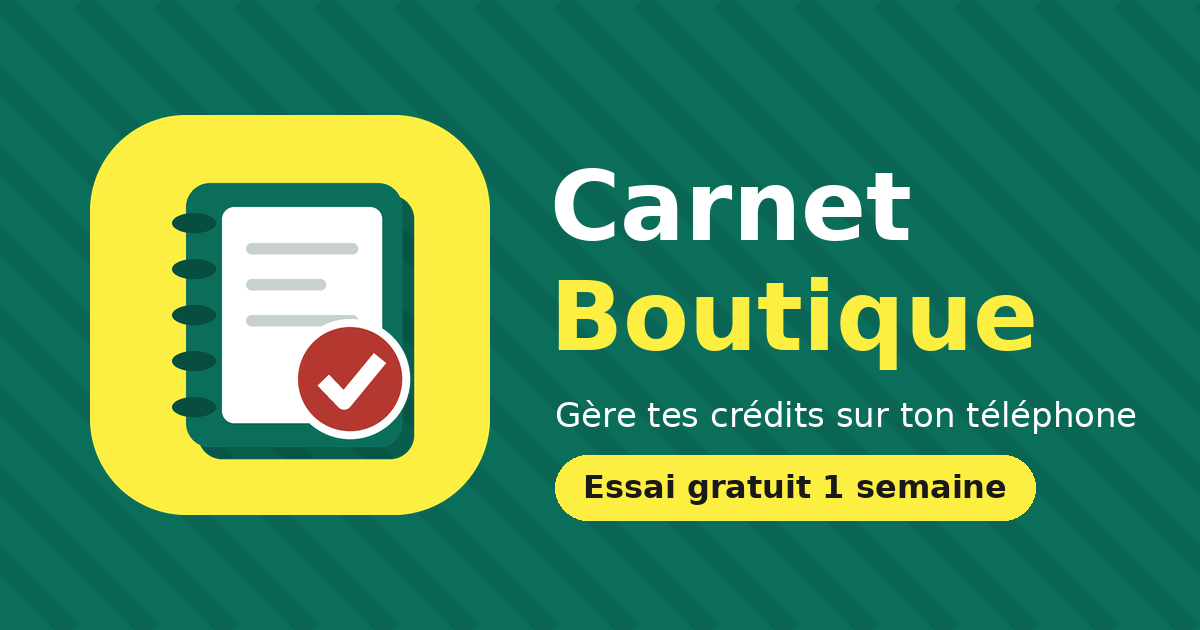
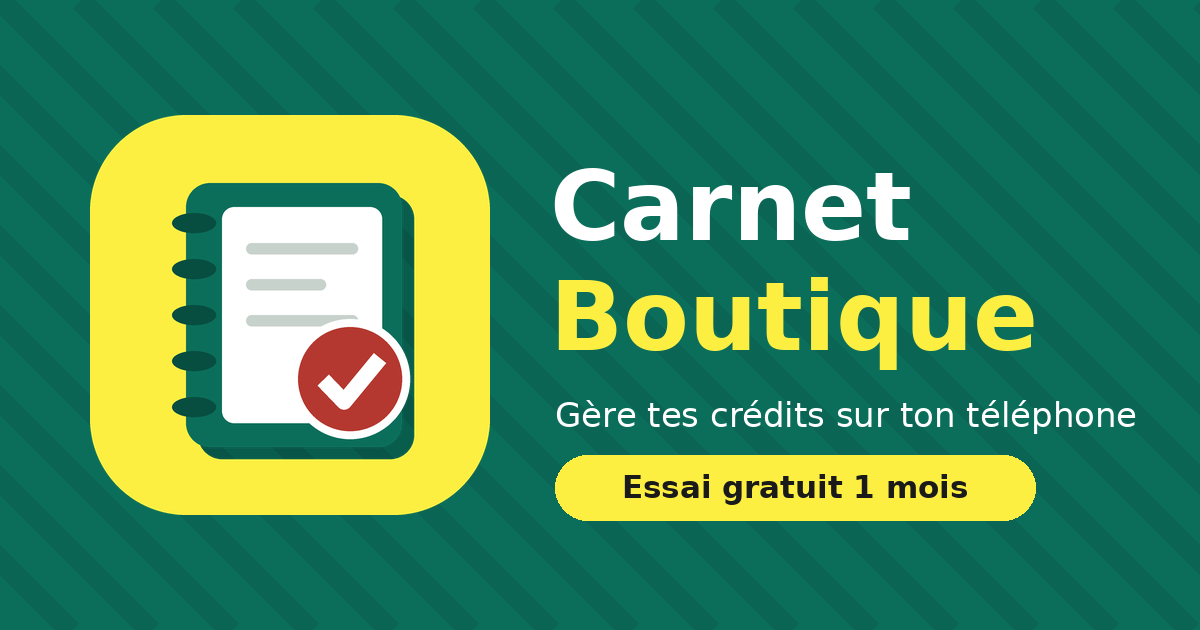
Offre de lancement : 1 mois gratuit jusqu'au 31/01/2027, puis 14 jours
La durée de l'essai est aussi fixée par le serveur (Supabase seck_essai_fin).

Claude-Session: https://claude.ai/code/session_016E3iuBy89ZfTHGSWXiJReE

Changed region(s): [[0.4625, 0.754, 0.8325, 0.8143]]

diff --git a/index.html b/index.html
@@ -1,4 +1,4 @@
-<!doctype html><html lang="fr"><head><script>/* terangaapps.com : passe en https dès que le certificat est prêt */(function(){try{var l=location;if(l.protocol==="http:"&&/(^|\.)terangaapps\.com$/.test(l.hostname)){var u="https://"+l.host+l.pathname+l.search+l.hash;fetch("https://"+l.host+"/CNAME",{mode:"no-cors",cache:"no-store"}).then(function(){l.replace(u)}).catch(function(){})}}catch(e){}})();</script><meta charset=utf8><meta name=viewport content="width=device-width,initial-scale=1,viewport-fit=cover"><style>:root{color-scheme:light;box-sizing:border-box;padding-top:env(safe-area-inset-top,0px);padding-bottom:env(safe-area-inset-bottom,0px)}html{scroll-padding-top:env(safe-area-inset-top,0px)}body{margin:0;padding:0;font:14px -apple-system,BlinkMacSystemFont,sans-serif;background:#faf9f5;color:#141413}img{max-width:100%}[hidden]:not([hidden=until-found i]){display:none!important}.pushcard{display:flex;flex-direction:column;gap:10px;background:var(--pc-bg,transparent);border:1px solid var(--pc-line,rgba(128,128,128,.35));border-radius:14px;padding:14px;margin:12px 0}
+<!doctype html><html lang="fr"><head><script>/* terangaapps.com : passe en https dès que le certificat est prêt */(function(){try{var l=location;if(l.protocol==="http:"&&/(^|\.)terangaapps\.com$/.test(l.hostname)){var u="https://"+l.host+l.pathname+l.search+l.hash;fetch("https://"+l.host+"/CNAME",{mode:"no-cors",cache:"no-store"}).then(function(){l.replace(u)}).catch(function(){})}}catch(e){}})();</script><meta charset=utf8><script>/* Essai gratuit : 1 mois pour toute inscription jusqu'au 31/01/2027 (offre de lancement), puis 14 jours. Même règle sur le serveur (Supabase seck_essai_fin). */window.ESSAI_LANCEMENT=Date.now()<Date.UTC(2027,1,1);window.ESSAI_TXT=ESSAI_LANCEMENT?'1 mois gratuit':'14 jours gratuits';window.ESSAI_TXT_LONG=ESSAI_LANCEMENT?"1 mois d'essai gratuit":"14 jours d'essai gratuit";window.ESSAI_IT=ESSAI_LANCEMENT?'1 mese gratis':'14 giorni gratis';window.ESSAI_JOURS=ESSAI_LANCEMENT?30:14;</script><meta name=viewport content="width=device-width,initial-scale=1,viewport-fit=cover"><style>:root{color-scheme:light;box-sizing:border-box;padding-top:env(safe-area-inset-top,0px);padding-bottom:env(safe-area-inset-bottom,0px)}html{scroll-padding-top:env(safe-area-inset-top,0px)}body{margin:0;padding:0;font:14px -apple-system,BlinkMacSystemFont,sans-serif;background:#faf9f5;color:#141413}img{max-width:100%}[hidden]:not([hidden=until-found i]){display:none!important}.pushcard{display:flex;flex-direction:column;gap:10px;background:var(--pc-bg,transparent);border:1px solid var(--pc-line,rgba(128,128,128,.35));border-radius:14px;padding:14px;margin:12px 0}
 .pushh{font-size:17px}.pushnote{font-size:14px;opacity:.85;line-height:1.4}.pushwarn{color:#b45309;opacity:1;font-weight:600}
 .pushon{font-weight:800}.pushrow{display:flex;gap:8px;flex-wrap:wrap}
 .pushbtn{border:0;border-radius:12px;padding:12px 16px;font-weight:800;font-size:16px;min-height:46px;cursor:pointer;background:var(--pc-accent,#0B6E5B);color:#fff}
@@ -12,7 +12,7 @@
 <meta property="og:title" content="Carnet Boutique">
 <meta property="og:description" content="Gère tes crédits sur ton téléphone. Français • Wolof. Essai gratuit 1 semaine.">
 <meta property="og:url" content="https://boutique.terangaapps.com/">
-<meta property="og:image" content="https://boutique.terangaapps.com/copertina.png">
+<meta property="og:image" content="https://boutique.terangaapps.com/copertina.png?v=2">
 <meta property="og:image:width" content="1200">
 <meta property="og:image:height" content="630">
 <meta name="twitter:card" content="summary_large_image">
@@ -475,6 +475,8 @@ const WO_RX=[
 [/^L'app sera bloquée dans (-?\d+) jour\(s\)\. Payez pour continuer\.$/,"App bi dina tëju ci $1 fan. Feyal ngir wéy."],
 [/^Votre essai gratuit se termine le$/,"Sa jéem bu amul pey dina jeex ci"],[/^Votre abonnement se termine le$/,"Sa abonnement dina jeex ci"],
 [/^\((-?\d+) j\)\.$/,"($1 fan)."],
+[/^Ventes, factures WhatsApp, crédits des clients, stock avec code-barres, fournisseurs et dépenses\. 1 mois d'essai gratuit\.$/,"Jaay, faktiir ci WhatsApp, boru kiliyaan yi, stock ak code-barres, fournisseurs ak depaans. Benn weer ngir jéem, amul pey."],
+[/^Ventes, factures WhatsApp, crédits des clients, stock avec code-barres, fournisseurs et dépenses\. 1 mois d'essai gratuit\.$/,"Jaay, faktiir ci WhatsApp, boru kiliyaan yi, stock ak code-barres, fournisseurs ak depaans. Benn weer ngir jéem, amul pey."],
 [/^Ventes, factures WhatsApp, crédits des clients, stock avec code-barres, fournisseurs et dépenses\. (\d+) jours d'essai gratuit\.$/,"Jaay, faktiir ci WhatsApp, boru kiliyaan yi, stock ak code-barres, fournisseurs ak depaans. $1 fan ngir jéem, amul pey."],
 [/^(\d+) facture\(s\)$/,"$1 faktiir"],[/^(\d+) client\(s\)$/,"$1 kiliyaan"],[/^(\d+) en retard$/,"$1 yàgg nañu"],[/^(\d+) à racheter$/,"$1 war a jënd"],
 [/^(\d+) en attente$/,"$1 ñuy xaar"],[/^(\d+) ligne\(s\) sans prix d'achat$/,"$1 marsandiis amul njëgu jënd"],
@@ -544,7 +546,7 @@ function applyCfg(c){if(!c||typeof c!=='object')return;const d=x=>String(x||'').
   if(d(c.paiement).length>=9)PAY_NUM=String(c.paiement).trim();if(c.prix)PRIX_MOIS=String(c.prix);if(c.nom)SUPPORT_NAME=String(c.nom);}
 try{applyCfg(JSON.parse(localStorage.getItem('carnetBoutique.cfg')||'null'));}catch(e){}
 try{fetch('config.json?t='+Date.now(),{cache:'no-store'}).then(r=>r.ok?r.json():null).then(c=>{if(!c)return;applyCfg(c);try{localStorage.setItem('carnetBoutique.cfg',JSON.stringify(c));}catch(e){}try{if(S)render();}catch(e){}}).catch(()=>{});}catch(e){}
-const TRIAL_DAYS=7, GRACE_DAYS=3;
+const TRIAL_DAYS=ESSAI_JOURS, GRACE_DAYS=3;
 // ===== Abonnement : vérifié en ligne (table abonnements, modifiable seulement par Seck Tech) =====
 const A31='ABCDEFGHJKMNPQRSTUVWXYZ23456789';
 function h32(s,seed){let h=seed>>>0;for(let i=0;i<s.length;i++){h^=s.charCodeAt(i);h=Math.imul(h,16777619)>>>0;}h^=h>>>13;h=Math.imul(h,0x5bd1e995)>>>0;h^=h>>>15;return h>>>0;}
@@ -731,7 +733,7 @@ function banner(L){
   if(L.st==='grace')return '<div class="banner bad"><b>Abonnement expiré le '+fdate(L.end)+'.</b><span>L\'app sera bloquée dans '+(GRACE_DAYS+L.left)+' jour(s). Payez pour continuer.</span></div>';
   if(L.st==='warn')return '<div class="banner warn"><span>'+(L.trial?'Votre essai gratuit':'Votre abonnement')+' se termine le <b>'+fdate(L.end)+'</b> ('+L.left+' j).</span></div>';
   return '';}
-function onboard(){return '<div class="wrap"><div class="hero-on"><div class="seg" style="max-width:260px;margin-bottom:22px"><button class="segb" type="button" data-lang="fr" aria-pressed="'+(LANG!=='wo')+'">Français</button><button class="segb" type="button" data-lang="wo" aria-pressed="'+(LANG==='wo')+'">Wolof</button></div><h1>Carnet Boutique</h1><p>Ventes, factures WhatsApp, crédits des clients, stock avec code-barres, fournisseurs et dépenses. '+TRIAL_DAYS+' jours d\'essai gratuit.</p></div>'+(IS_APP?'':a2hsCard(true)+'<div style="height:14px"></div>')+
+function onboard(){return '<div class="wrap"><div class="hero-on"><div class="seg" style="max-width:260px;margin-bottom:22px"><button class="segb" type="button" data-lang="fr" aria-pressed="'+(LANG!=='wo')+'">Français</button><button class="segb" type="button" data-lang="wo" aria-pressed="'+(LANG==='wo')+'">Wolof</button></div><h1>Carnet Boutique</h1><p>Ventes, factures WhatsApp, crédits des clients, stock avec code-barres, fournisseurs et dépenses. '+ESSAI_TXT_LONG+'.</p></div>'+(IS_APP?'':a2hsCard(true)+'<div style="height:14px"></div>')+
  '<form id="fOn" class="card stack"><label class="f">Nom de la boutique<input id="onName" placeholder="Ex : Boutique Touba"></label>'+
  '<label class="f">Nom du propriétaire<input id="onOwner" placeholder="Ex : Moustapha Gningue"></label>'+
  '<label class="f">Téléphone<input id="onPhone" inputmode="tel" placeholder="77 000 00 00" value="'+esc(userPhone())+'"></label>'+
